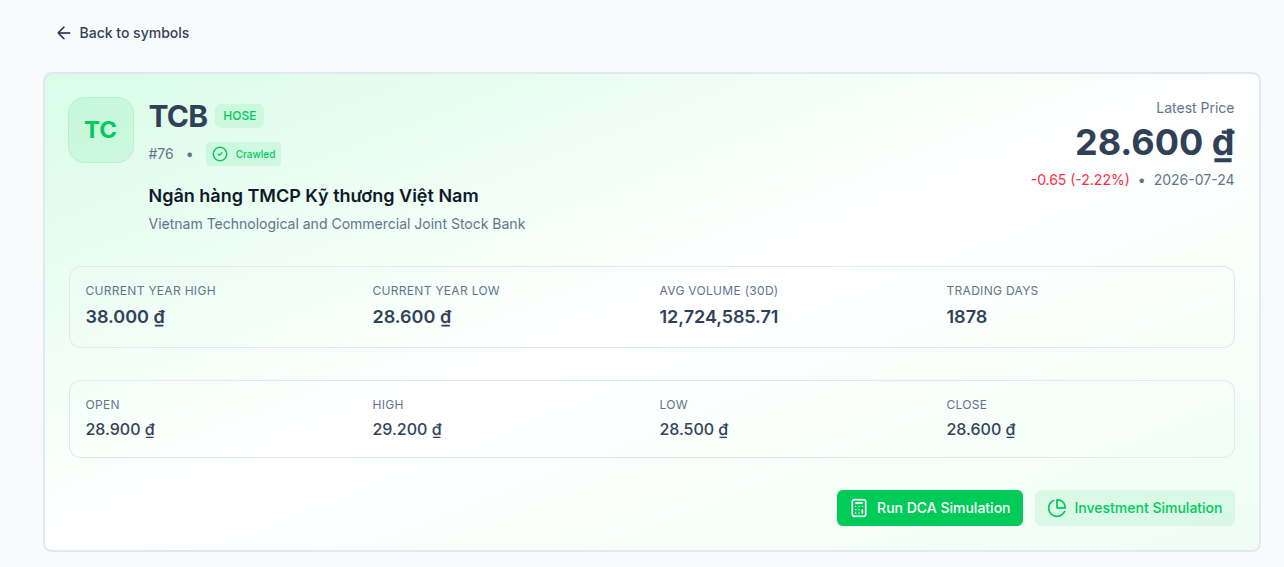
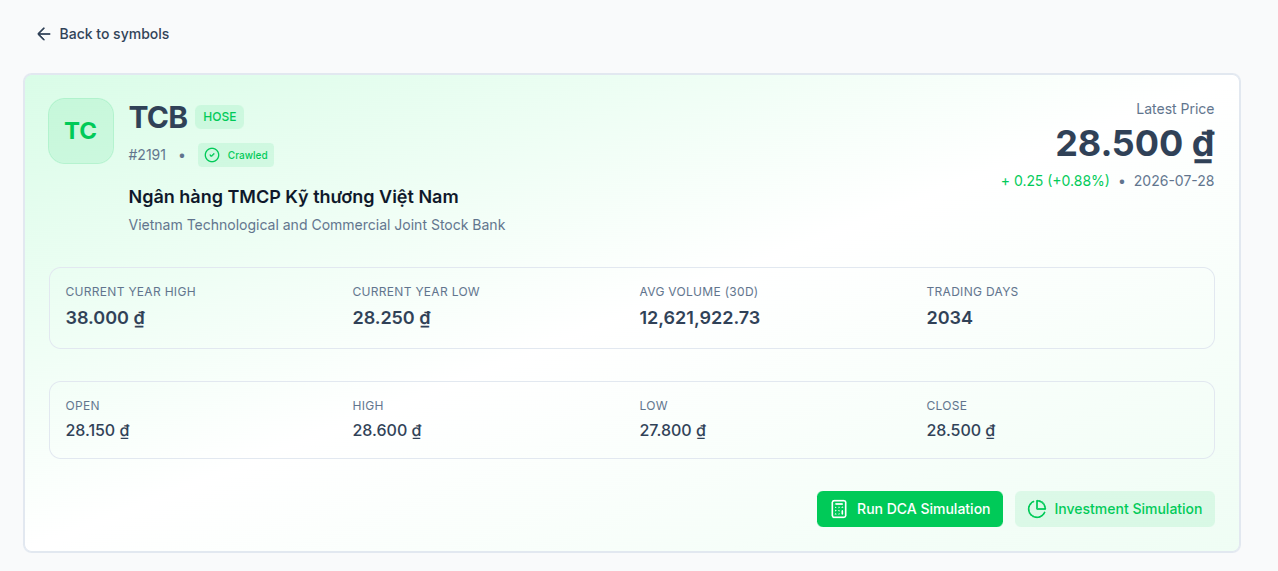
feat: update version 0.1.3

diff --git a/README.md b/README.md
@@ -14,6 +14,16 @@ Welcome to the **DCA (Dollar-Cost Averaging) Simulation Platform** repository. T
 
 ---
 
+## [v0.1.3] - 2026-07-28
+
+### Bug Fixes
+* **Price Data:** Resolved an issue where crawling prices resulted in missing data.
+* **General:** Fixed various minor bugs and improved overall system stability.
+
+### Updates & Breaking Changes
+* **Deployment / Infrastructure:** Users must run `docker compose down -v`, then `docker compose up -d` again to apply the latest updates.
+* **Cache & Storage:** Users must clear their browser cache and local storage upon entering the front page to ensure proper application behavior.
+
 ## [v0.1.2] - 2026-07-26
 
 ### Bug Fixes
